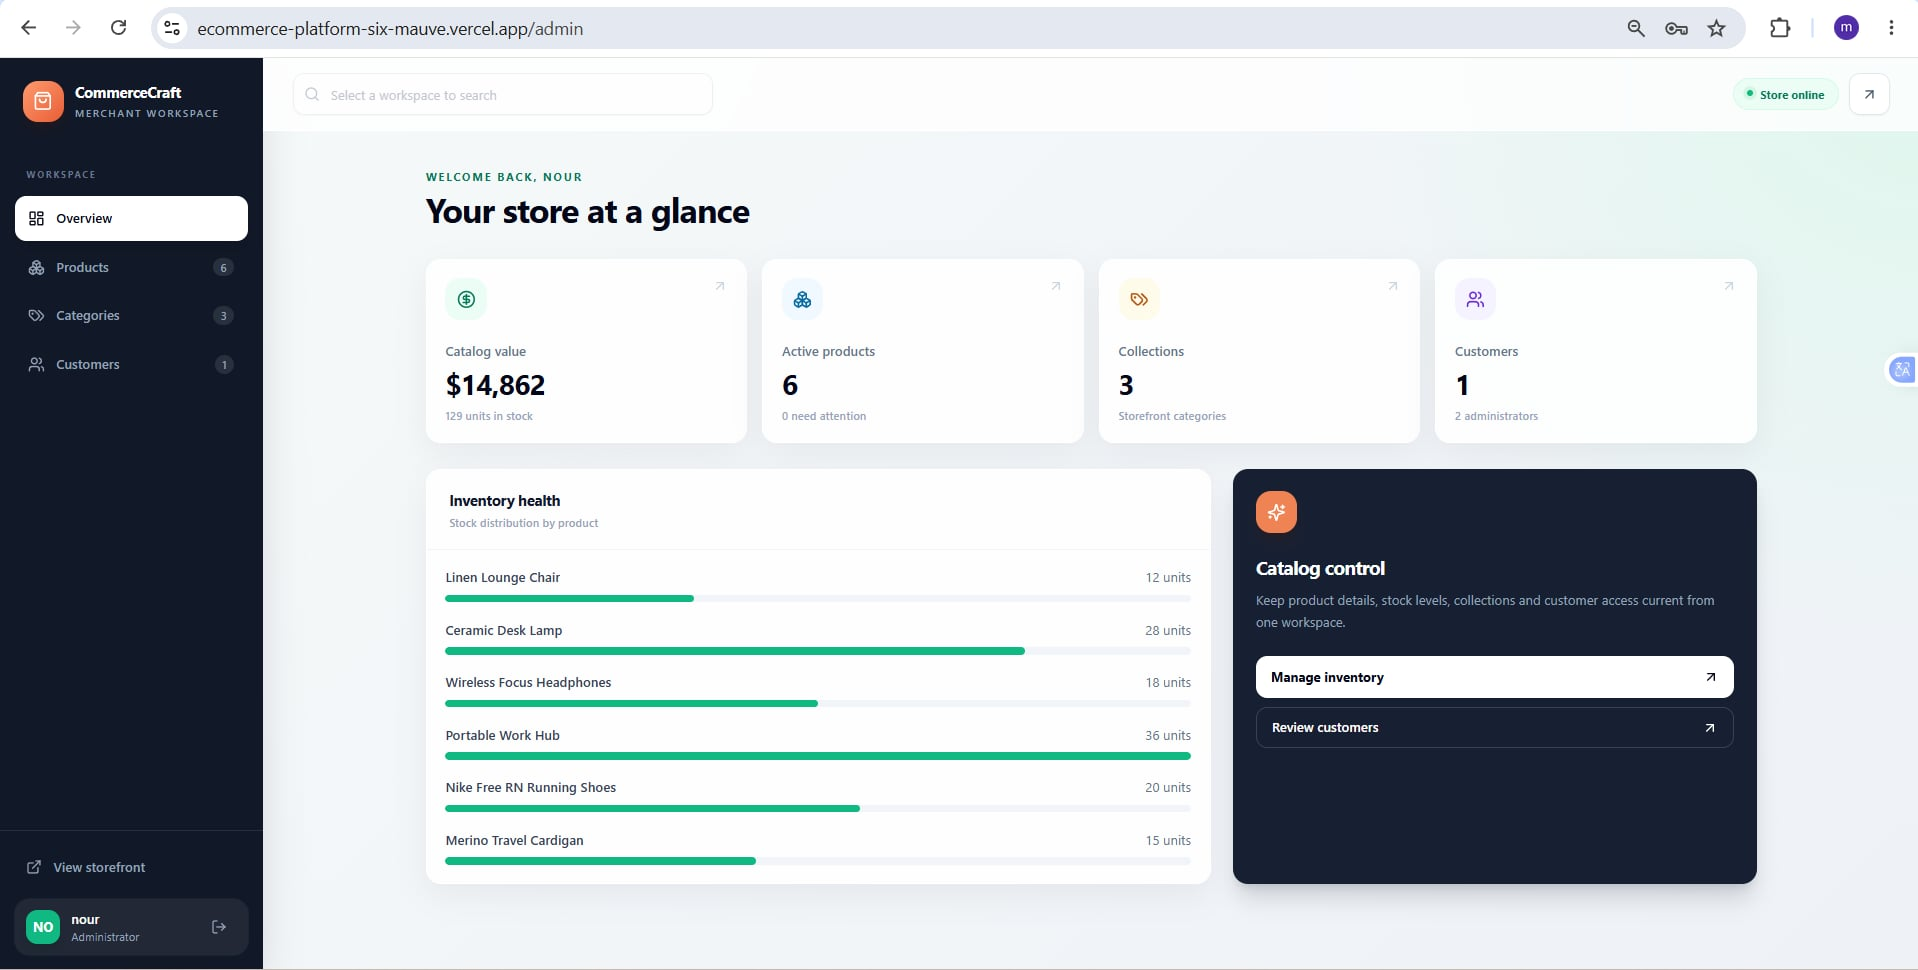
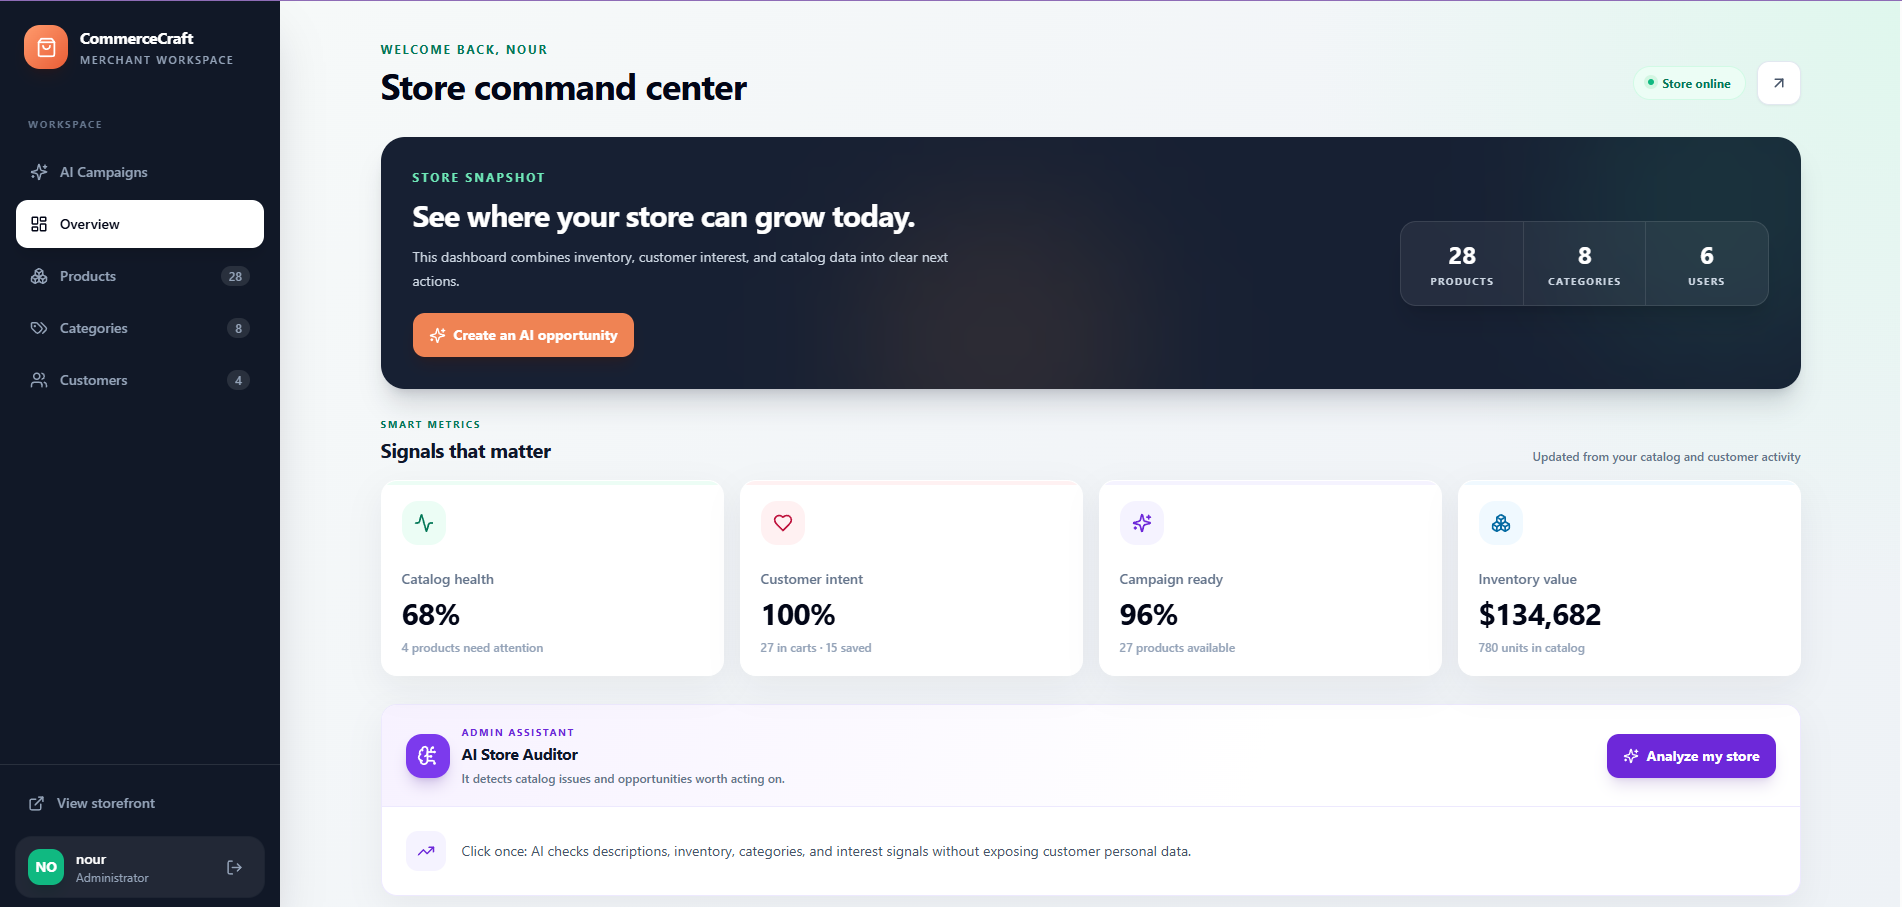
docs: refresh application screenshots

diff --git a/README.md b/README.md
@@ -164,6 +164,12 @@ The local application runs at `http://localhost:3000`. Configure the same AWS Dy
 
 ![Homepage](public/screenshots/home.jpg)
 
+
+### Chatbot conversation
+
+
+![Chatbot conversation](public/screenshots/Chatbotconversation.jpg)
+
 ### Product catalog
 
 ![Product catalog](public/screenshots/products.jpg)
@@ -192,9 +198,31 @@ The local application runs at `http://localhost:3000`. Configure the same AWS Dy
 
 ![Administration dashboard](public/screenshots/admin.jpg)
 
-### Customer directory (privacy-safe)
 
-![Customer directory with email addresses blurred](public/screenshots/admin-customers-private.jpg)
+### Admin products
+
+![Admin products](public/screenshots/Admin products.jpg)
+
+
+### AI Product Copilot
+
+![AI Product Copilot](public/screenshots/AI Product Copilot.jpg)
+
+
+
+### Admin categories
+![Admin categories](public/screenshots/Admin categories.jpg)
+
+### AI Campaigns
+
+![AI Campaigns](public/screenshots/AI Campaigns.png)
+
+
+
+
+
+### Admin customers
+![Admin customers](public/screenshots/Admin customers.jpg)
 
 ## Screenshots for the Internship Submission
 
